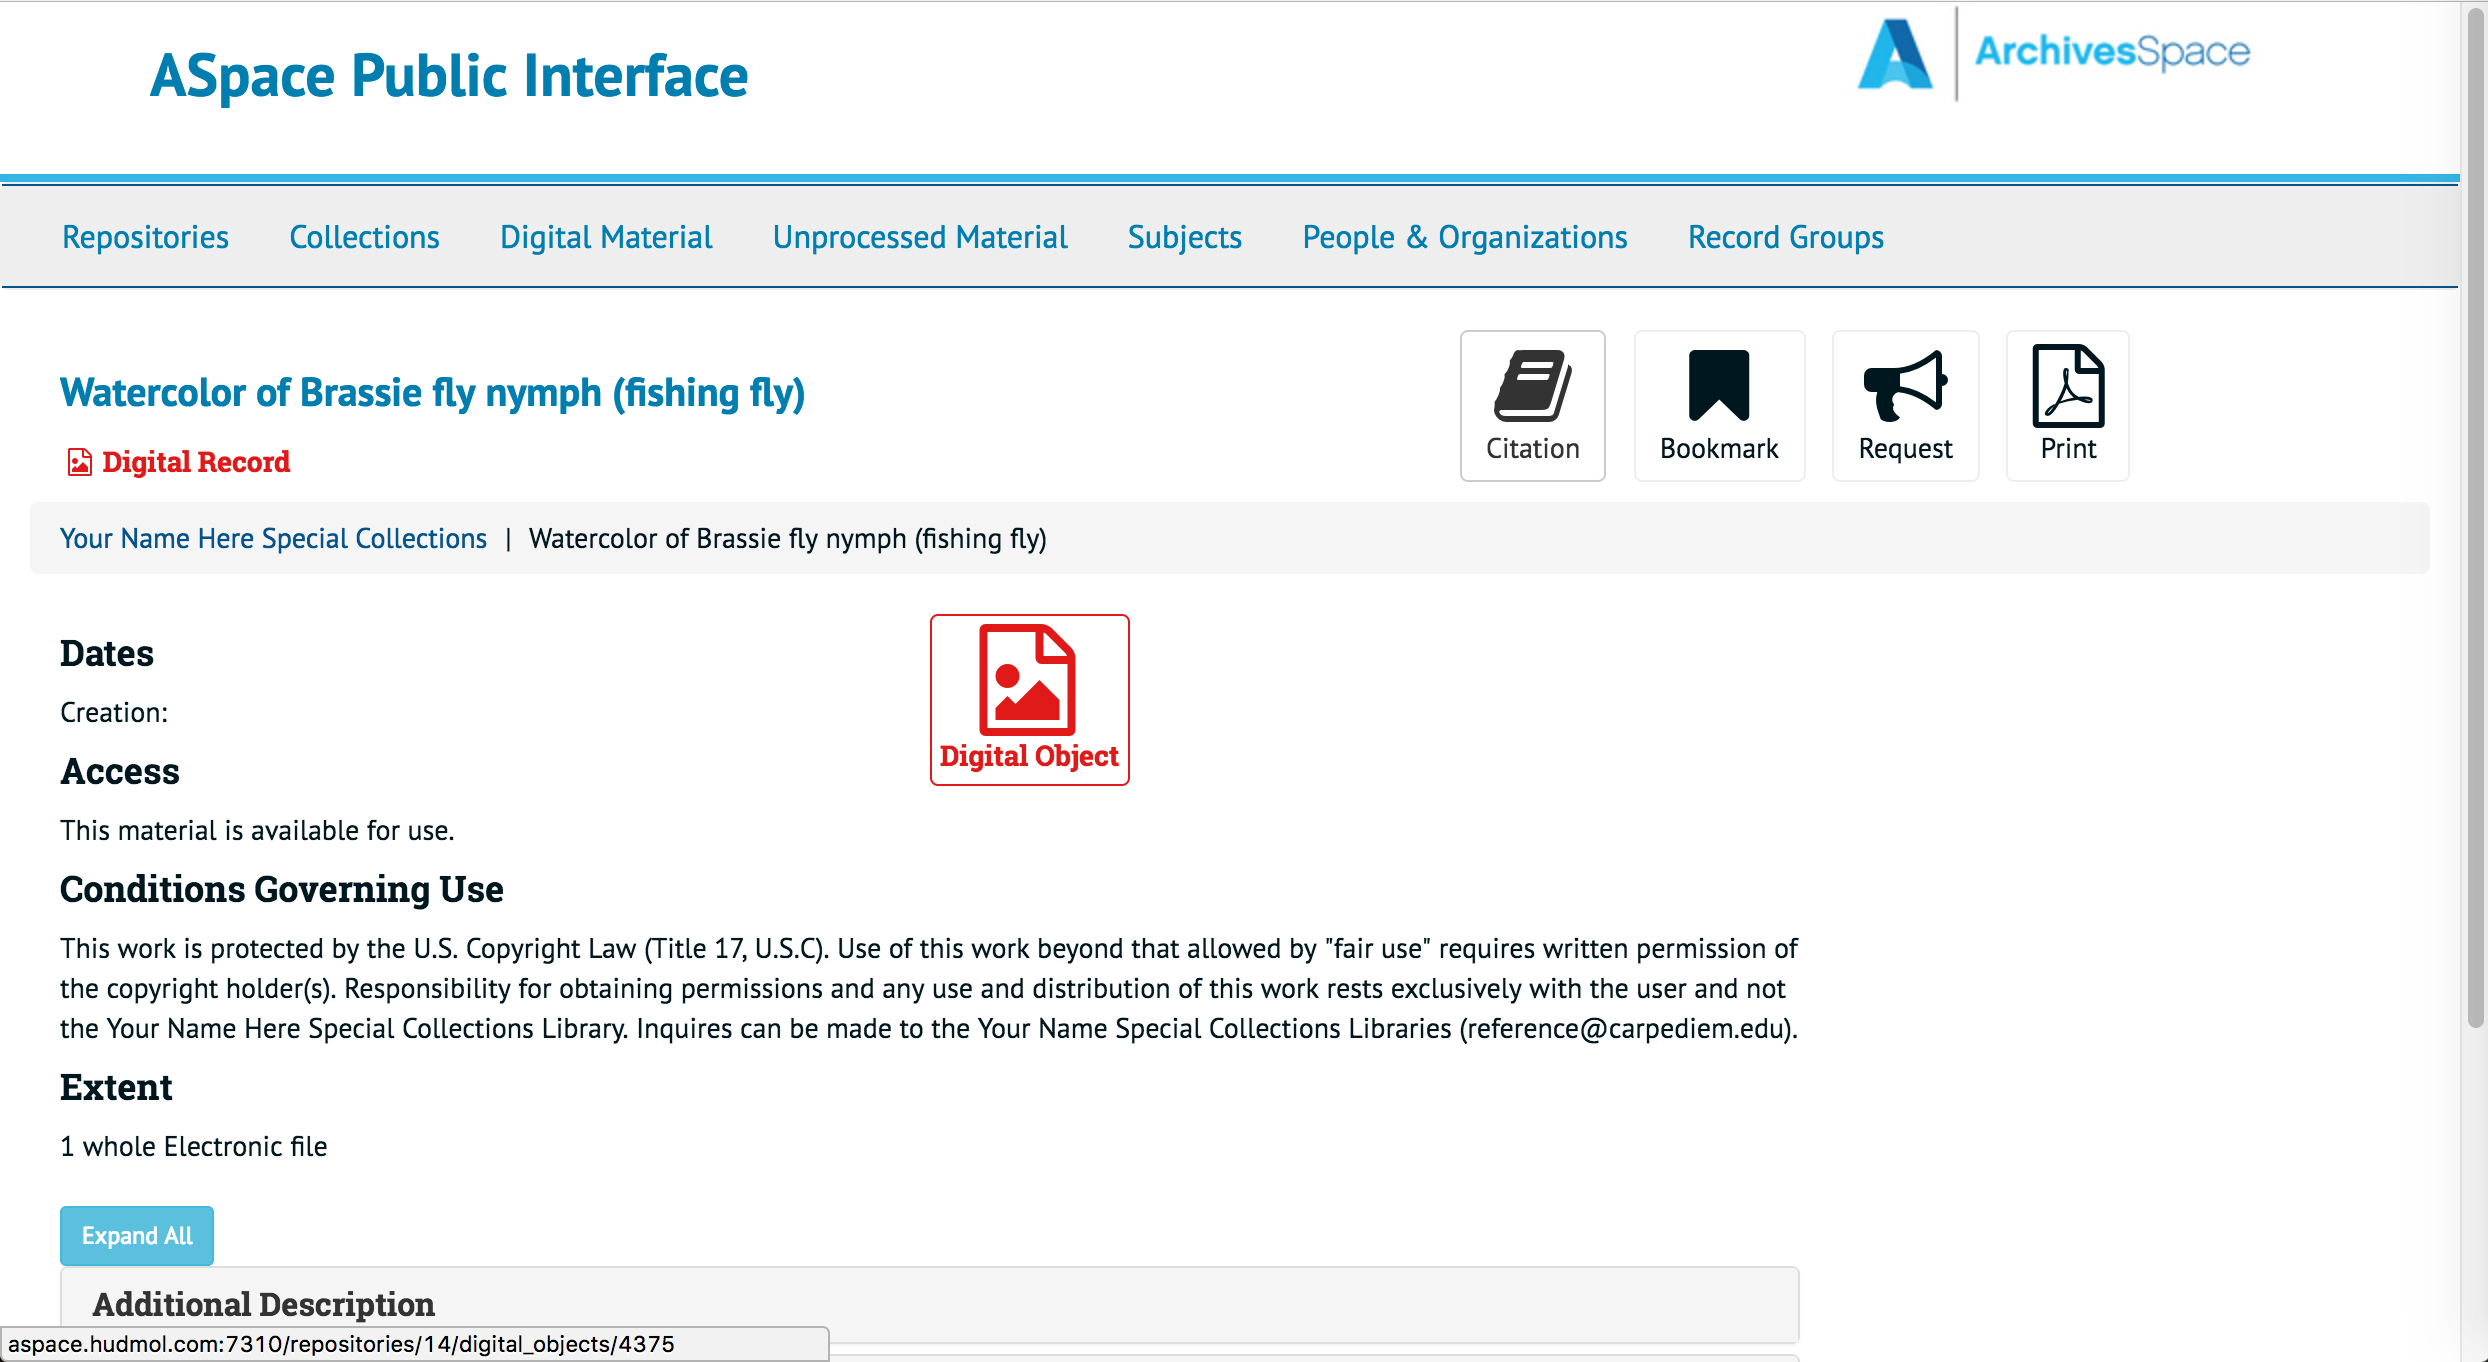
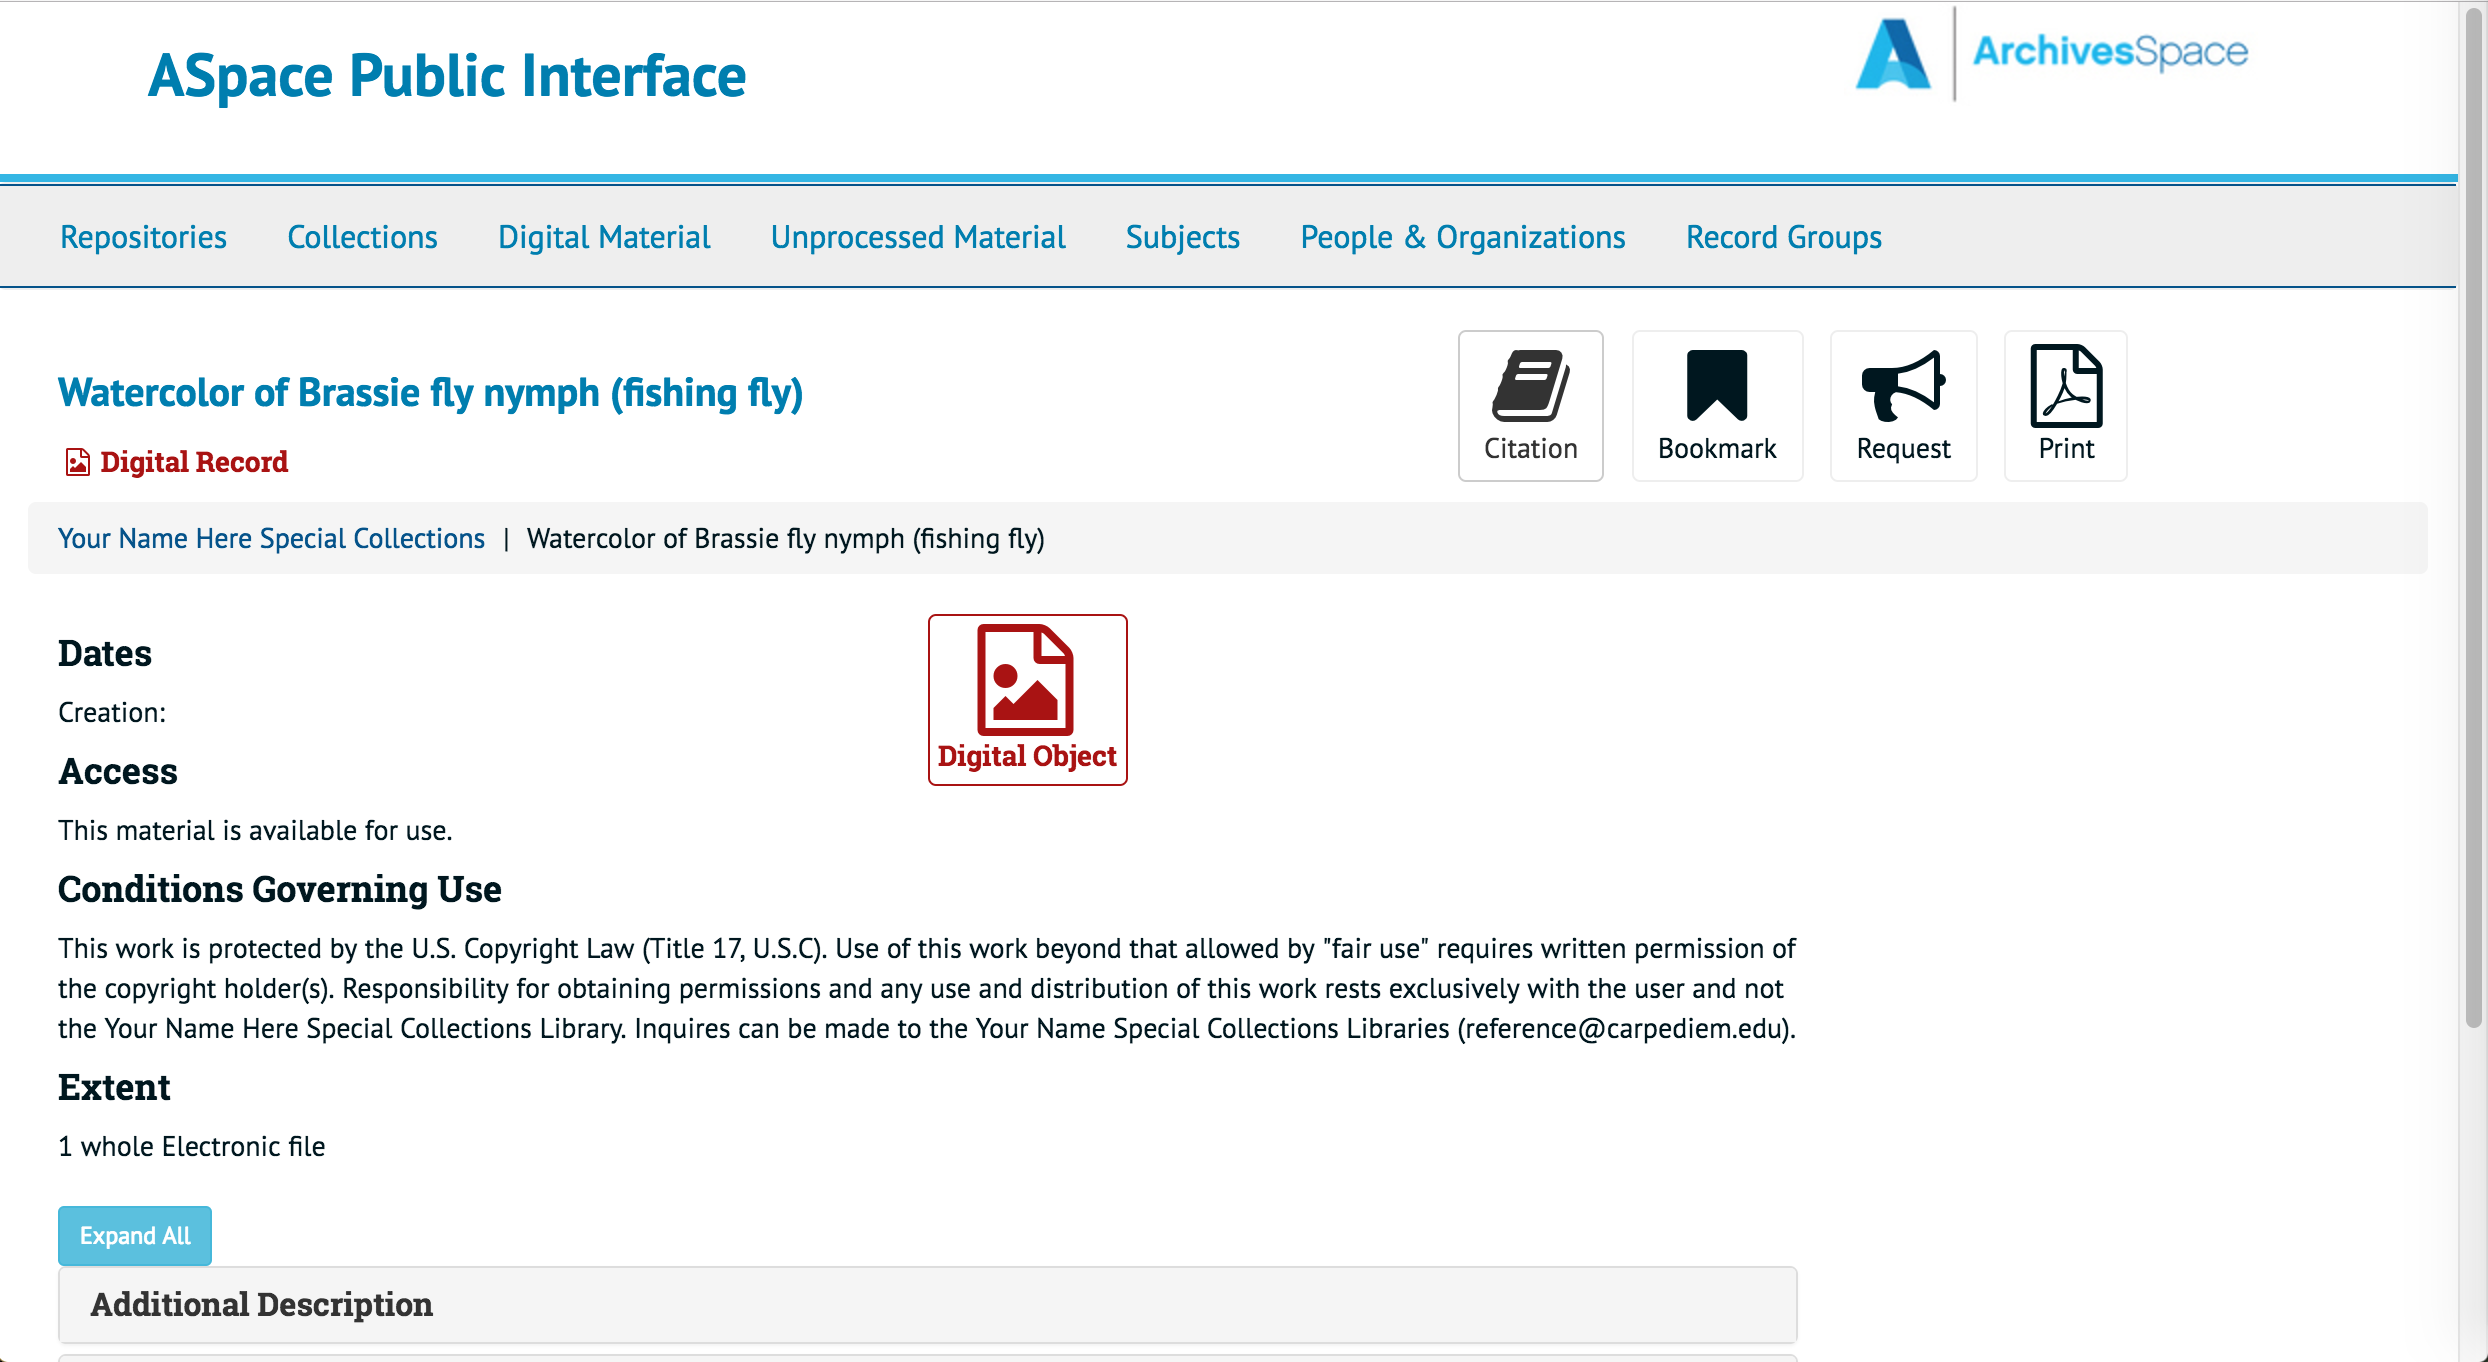
archivesSpace_badge_color_2, screen capture of proposed interface and UI code

diff --git a/User-Experience-Recommendations/archivesSpace_badge_color_2/index.html b/User-Experience-Recommendations/archivesSpace_badge_color_2/index.html
@@ -1,11 +1,14 @@
+<!-- All the proposed colors where tested on 
+	   http://webaim.org/resources/contrastchecker/ 
+	   to ensure sufficient contrast -->
 
-
-
-
-
+<!-- 1 UI comments were added to this code -->
 
 <div class="objectimage">
       <form id="larger" action="http://www.archivesspace.org/demos/Congreave%20E-1/ms292_001.jpg" method="post" target="new">
+       
+<!-- UI comment #1 - change color in class 
+	   ".record-type-badge.digital_object" from e01919 to a91313 -->
        <button type="submit" class="btn btn-default record-type-badge digital_object" title="Link to digital object">
           <i class="fa fa-file-image-o fa-4x"></i><br>
             Digital Object
